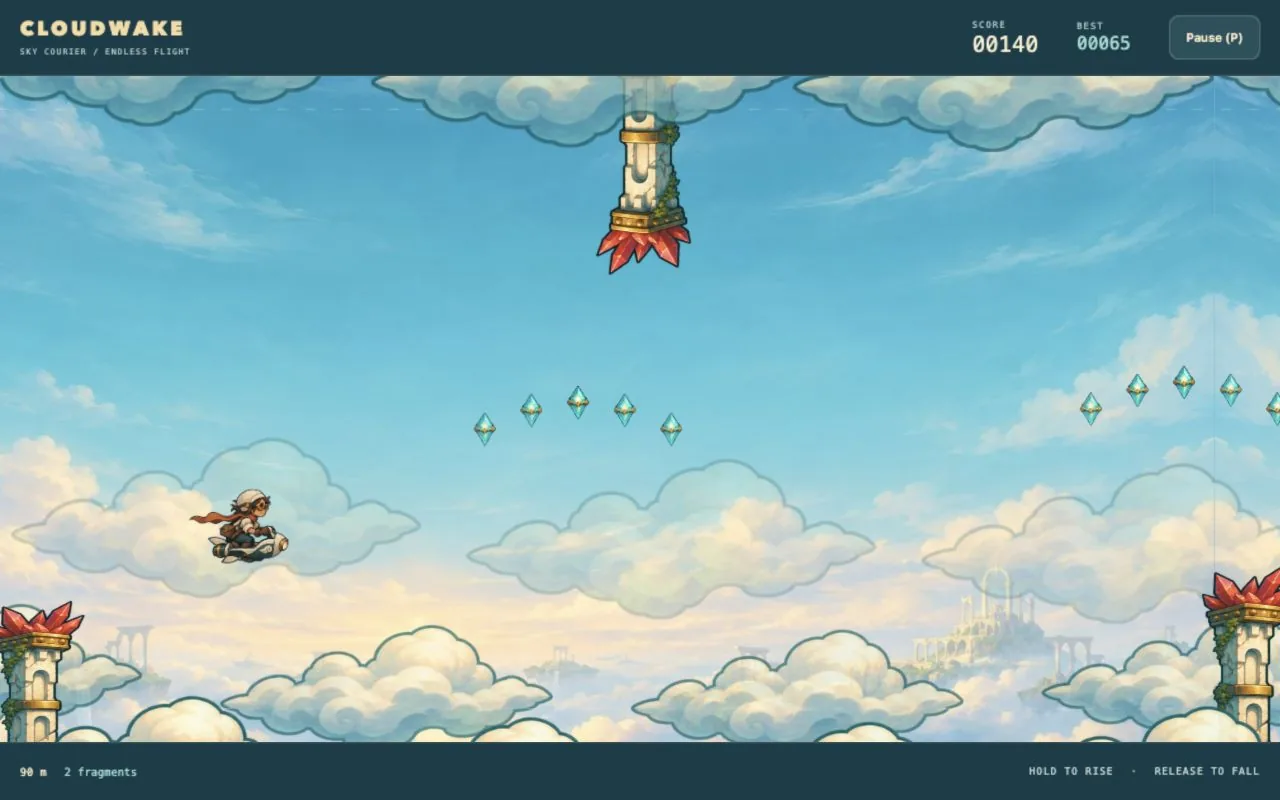
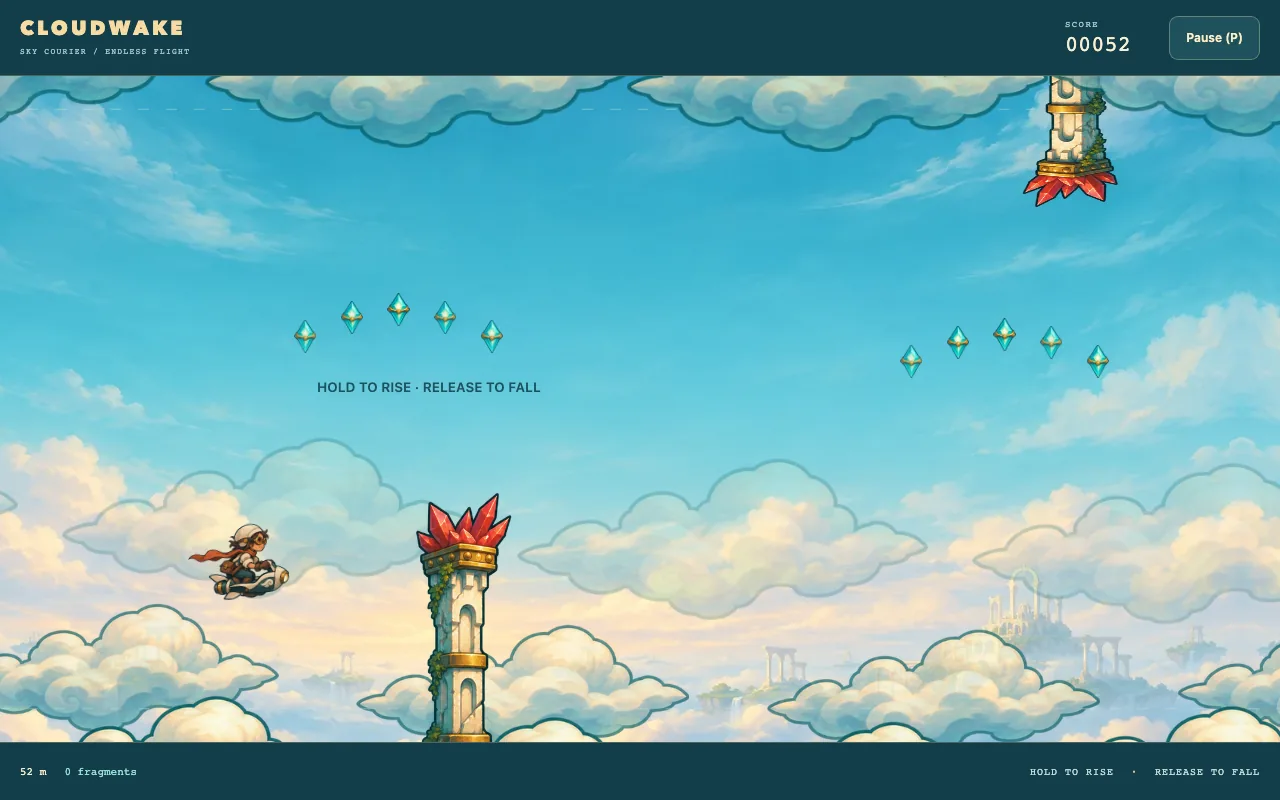
fix: simplify Cloudwake scoring to the current run

diff --git a/src/games/cloudwake/app.ts b/src/games/cloudwake/app.ts
@@ -12,14 +12,8 @@ import { createSound } from './sound.ts';
 import { createUI, type Intent, type Screen } from './ui.ts';
 import './style.css';
 
-const bestKey = 'arcade-lab.cloudwake.best';
-function readBest() {
-  try { const value = Number(localStorage.getItem(bestKey)); return Number.isSafeInteger(value) && value > 0 ? value : 0; }
-  catch { return 0; }
-}
-
 export function mountCloudwake(container: HTMLElement, onExit: () => void, fullscreen: FullscreenControl): GameSession {
-  let disposed = false, screen: Screen = 'title', run = createRun(), best = readBest(), record = false;
+  let disposed = false, screen: Screen = 'title', run = createRun();
   const clock = createClock();
   let outcomeAt = 0;
   let host: ReturnType<typeof createHost>, ui: ReturnType<typeof createUI>, input: ReturnType<typeof bindInput>;
@@ -48,7 +42,7 @@ export function mountCloudwake(container: HTMLElement, onExit: () => void, fulls
     function transition(next: Screen, focus = true) {
       input.clear(); clock.reset(); screen = next;
       if (next === 'paused' || next === 'title') sound.pause();
-      ui.update(run, best, record); ui.show(next, focus);
+      ui.update(run); ui.show(next, focus);
     }
     function act(intent: Intent) {
       if (disposed) return;
@@ -58,7 +52,7 @@ export function mountCloudwake(container: HTMLElement, onExit: () => void, fulls
       if (!readiness.ready || document.hidden || !document.hasFocus()) return;
       if ((intent === 'start' && screen === 'title') || (intent === 'restart' && screen !== 'playing')) {
         sound.reset(); sound.activate();
-        run = createRun(crypto.getRandomValues(new Uint32Array(1))[0]); record = false;
+        run = createRun(crypto.getRandomValues(new Uint32Array(1))[0]);
         presentation.reset(); transition('playing');
       } else if (intent === 'resume' && screen === 'paused') {
         sound.activate(); pauseRun(run, false); transition('playing');
@@ -85,7 +79,7 @@ export function mountCloudwake(container: HTMLElement, onExit: () => void, fulls
     bindSessionFocus(host.root, { signal: host.signal, surface: host.surface, playing: () => screen === 'playing', clearInput: () => input.clear(), suspend,
       shouldSuspend: () => screen === 'playing' && document.activeElement !== host.surface && document.activeElement !== ui.thrust });
     bindPageLifetime({ signal: host.signal, suspend, resetTiming: () => clock.reset(), dispose });
-    ui.update(run, best, record); ui.show('title'); ui.fullscreen(host.fullscreenAvailable, host.fullscreen);
+    ui.update(run); ui.show('title'); ui.fullscreen(host.fullscreenAvailable, host.fullscreen);
     host.start(now => {
       if (!readiness.ready) return;
       if (screen === 'playing') {
@@ -94,8 +88,6 @@ export function mountCloudwake(container: HTMLElement, onExit: () => void, fulls
         const events = takeEvents(run); presentation.consume(events); sound.consume(events, run.thrust);
         if (run.status === 'defeat') {
           outcomeAt = now;
-          record = run.score > best; best = Math.max(best, run.score);
-          try { localStorage.setItem(bestKey, String(best)); } catch { /* Best remains usable for this visit. */ }
           transition('defeat');
         }
       }
@@ -110,7 +102,7 @@ export function mountCloudwake(container: HTMLElement, onExit: () => void, fulls
           return presentation.prepare().then(() => { if (!disposed) presentation.draw(run, host); });
         });
       }
-      ui.update(run, best, record);
+      ui.update(run);
     });
     return { dispose };
   } catch (error) { dispose(); throw error; }

diff --git a/src/games/cloudwake/ui.ts b/src/games/cloudwake/ui.ts
@@ -8,7 +8,7 @@ export type Screen = 'title' | 'playing' | 'paused' | 'defeat';
 export type Intent = CommonMenuIntent;
 export function createUI(root: HTMLElement, surface: HTMLElement, signal: AbortSignal, act: (intent: Intent) => void, mute: (value: boolean) => void) {
   root.innerHTML = `<header class="cloudwake-hud"><div class="cloudwake-brand">CLOUDWAKE<span>SKY COURIER / ENDLESS FLIGHT</span></div>
-    <div class="cloudwake-score"><small>SCORE</small><output aria-label="Score">0</output></div><div class="cloudwake-best"><small>BEST</small><output aria-label="Best score">0</output></div><button data-intent="pause">Pause</button></header>
+    <div class="cloudwake-score"><small>SCORE</small><output aria-label="Score">0</output></div><button data-intent="pause">Pause</button></header>
     <main class="cloudwake-stage"></main><footer class="cloudwake-footer"><div><output aria-label="Distance">0 m</output><span class="cloudwake-fragments">0 fragments</span></div><p class="cloudwake-hint">HOLD TO RISE <span>·</span> RELEASE TO FALL</p><button data-control="thrust" aria-label="Hold to rise">↑ <span>HOLD TO RISE</span></button></footer>`;
   const $ = createElementLookup(root), stage = $('.cloudwake-stage');
   stage.prepend(surface);
@@ -35,13 +35,12 @@ export function createUI(root: HTMLElement, surface: HTMLElement, signal: AbortS
       menu.show(screen, focus);
       if (screen === 'defeat') menu.heading.textContent = 'Flight complete';
     },
-    update(run: Run, best: number, record: boolean) {
+    update(run: Run) {
       setText($('[aria-label="Score"]'), String(run.score).padStart(5, '0'));
-      setText($('[aria-label="Best score"]'), String(best).padStart(5, '0'));
       setText($('[aria-label="Distance"]'), `${Math.floor(run.distance / 10)} m`);
       setText($('.cloudwake-fragments'), `${run.pickups} fragments`);
       setProperty(thrust.dataset, 'thrusting', String(run.thrust));
-      results.update(`${run.score.toLocaleString()} POINTS${record ? ' · NEW BEST' : ''}\n${Math.floor(run.distance / 10)} m flown · ${run.pickups} fragments\nBEST ${best.toLocaleString()} · ${Math.floor(run.elapsed)} seconds aloft`);
+      results.update(`${run.score.toLocaleString()} POINTS\n${Math.floor(run.distance / 10)} m flown · ${run.pickups} fragments\n${Math.floor(run.elapsed)} seconds aloft`);
     },
   };
 }

diff --git a/src/games/cloudwake/style.css b/src/games/cloudwake/style.css
@@ -6,7 +6,6 @@
 .cloudwake-app .cloudwake-brand span { display: block; font: 500 8px/1.5 monospace; letter-spacing: .16em; color: #a8c7c7; margin-top: 5px; }
 .cloudwake-app .cloudwake-hud small { display: block; color: #a8c7c7; font: 9px/1.5 monospace; letter-spacing: .16em; }
 .cloudwake-app .cloudwake-hud output { font: 22px/1.2 monospace; font-variant-numeric: tabular-nums; }
-.cloudwake-app .cloudwake-best output { color: #9adfd5; font-size: 18px; }
 .cloudwake-app :is(.cloudwake-hud,.cloudwake-footer) button { cursor: pointer; color: #ffedc8; background: #20515b; border: 1px solid #d4d8b85c; border-radius: 9px; font: 600 12px system-ui, sans-serif; min-height: 44px; padding: 10px 16px; }
 .cloudwake-app :is(.cloudwake-hud,.cloudwake-footer) button:focus-visible { outline: 2px solid #ffe1a5; outline-offset: 3px; }
 .cloudwake-app .cloudwake-stage { min-height: 0; position: relative; overflow: hidden; }
@@ -32,7 +31,6 @@
   .cloudwake-app .cloudwake-brand { font-size: 12px; letter-spacing: .08em; }
   .cloudwake-app .cloudwake-brand span { font-size: 7px; max-width: 110px; }
   .cloudwake-app .cloudwake-hud output { font-size: 17px; }
-  .cloudwake-app .cloudwake-best output { font-size: 14px; }
   .cloudwake-app .cloudwake-hud button { padding: 8px 10px; }
   .cloudwake-app .cloudwake-footer { padding-inline: 12px; gap: 10px; }
   .cloudwake-app .cloudwake-footer > div { display: grid; gap: 6px; }

diff --git a/src/app/catalog-data.ts b/src/app/catalog-data.ts
@@ -13,6 +13,6 @@ export const gameInfo = [
   { id: 'blastline', title: 'Blastline', cover: new URL('../../docs/games/blastline/preview.webp', import.meta.url).href,
     genre: 'RUN & GUN', controls: 'Run · shoot · rescue', description: 'Rescue an operator, destroy defenses and reach extraction.' },
   { id: 'cloudwake', title: 'Cloudwake', cover: new URL('../../docs/games/cloudwake/preview.webp', import.meta.url).href,
-    genre: 'ONE-BUTTON FLIGHT', controls: 'Hold to rise · release to fall', description: 'Thread the sky ruins, gather lost light and chase your best flight.' },
+    genre: 'ONE-BUTTON FLIGHT', controls: 'Hold to rise · release to fall', description: 'Thread the sky ruins, gather lost light and fly as far as you can.' },
 ] as const;
 export type GameId = typeof gameInfo[number]['id'];

diff --git a/docs/games/cloudwake/README.md b/docs/games/cloudwake/README.md
@@ -10,7 +10,7 @@ Thrust is continuous acceleration with bounded ascent and descent speeds. Revers
 
 A flight begins with broad lower and upper obstacles, then introduces paired gates and floating mines. Each seeded route moves a bounded safe corridor between patterns. Its feasibility check integrates the actual flight physics from both edges and the center of the previous corridor, with extreme entry velocities and both possible holds during a reaction allowance. It checks clearance over the full next obstacle width at maximum scroll speed, extending empty travel if necessary. Moving mines remain outside that corridor throughout their oscillation. Fragments trace a small arc inside it. Every sixth pattern is a clear-air pocket.
 
-Speed rises gradually toward a cap over the first 90 seconds, while gaps tighten toward a minimum. There is no time limit or upgrade economy. Distance contributes one point per displayed meter, and each fragment adds 25 points. Every five cleared hazards earns a short visual/audio acknowledgement. The browser session stores only the best score under `arcade-lab.cloudwake.best`; unavailable storage leaves the game usable and retains the best for the visit.
+Speed rises gradually toward a cap over the first 90 seconds, while gaps tighten toward a minimum. There is no time limit or upgrade economy. Distance contributes one point per displayed meter, and each fragment adds 25 points. Every five cleared hazards earns a short visual/audio acknowledgement.
 
 Hold Space, W, ↑, mouse/touch on the playfield, or the mobile Rise button. Release to descend. See [shared menus, controls and lifecycle](../../../CATALOG.md) for pause, sound, fullscreen and navigation.
 
@@ -21,7 +21,7 @@ Hold Space, W, ↑, mouse/touch on the playfield, or the mobile Rise button. Rel
 | `content.ts` | Physical geometry, acceleration, braking and speed progression |
 | `route.ts` | Seeded patterns, corridor feasibility and mine motion |
 | `game.ts` | Mutable run, collision, collectibles, score and semantic events |
-| `app.ts` | Browser composition, fresh runs, best-score persistence and readiness/recovery |
+| `app.ts` | Browser composition, fresh runs and readiness/recovery |
 | `input.ts` | Shared button owner plus playfield and launch-hold capture |
 | `ui.ts`, `style.css` | HUD, results and shared menu composition |
 | `presentation.ts` | Whole-cel roles, uniform projection, image preparation, parallax and bounded effects |

diff --git a/CATALOG.md b/CATALOG.md
@@ -131,7 +131,7 @@ Health and lives are grouped in the HUD: bullets chip health, while hostile expl
 
 ![Cloudwake · Arcade: a sky courier threads crystal ruins above a sunlit cloud sea](docs/games/cloudwake/preview.webp)
 
-Take the sunward route on a tiny flying scooter. Hold to rise, release to fall, and thread coral-crystal ruins while gathering turquoise fragments. Broad opening passages introduce flight control before tighter gates and gently drifting storm mines. Clear-air pockets break up the pressure as speed builds toward its cap. Distance and fragments contribute to score, with a locally saved best and immediate retries. There is no time limit.
+Take the sunward route on a tiny flying scooter. Hold to rise, release to fall, and thread coral-crystal ruins while gathering turquoise fragments. Broad opening passages introduce flight control before tighter gates and gently drifting storm mines. Clear-air pockets break up the pressure as speed builds toward its cap. Distance and fragments contribute to the current run’s score, with immediate retries. There is no time limit.
 
 | Control | Action |
 | --- | --- |
